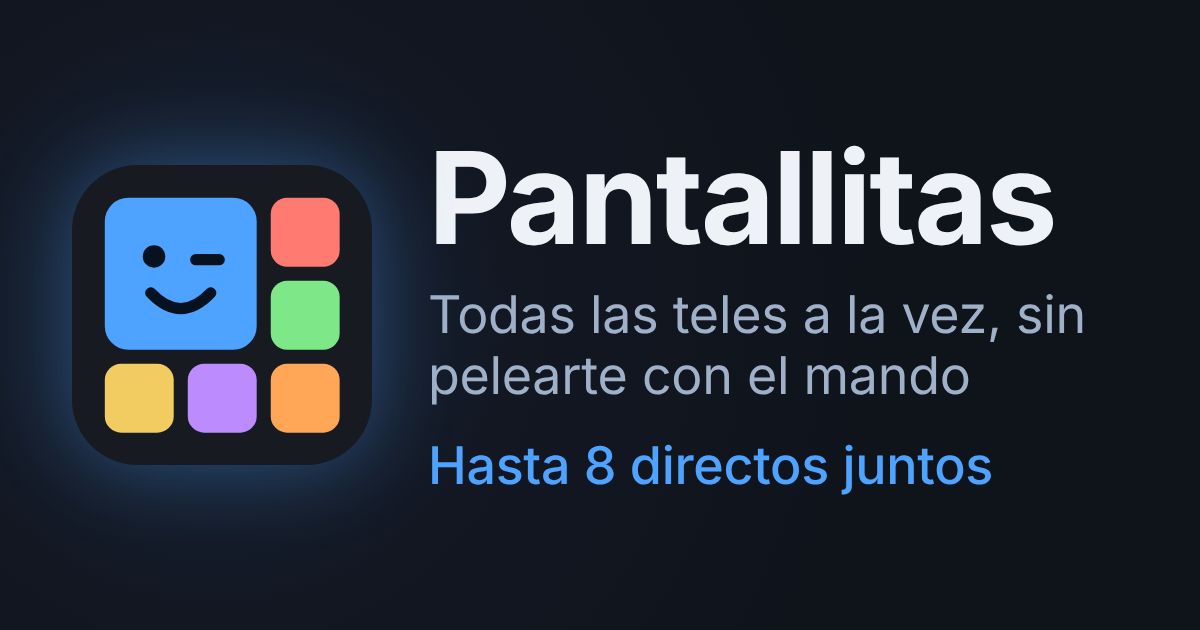
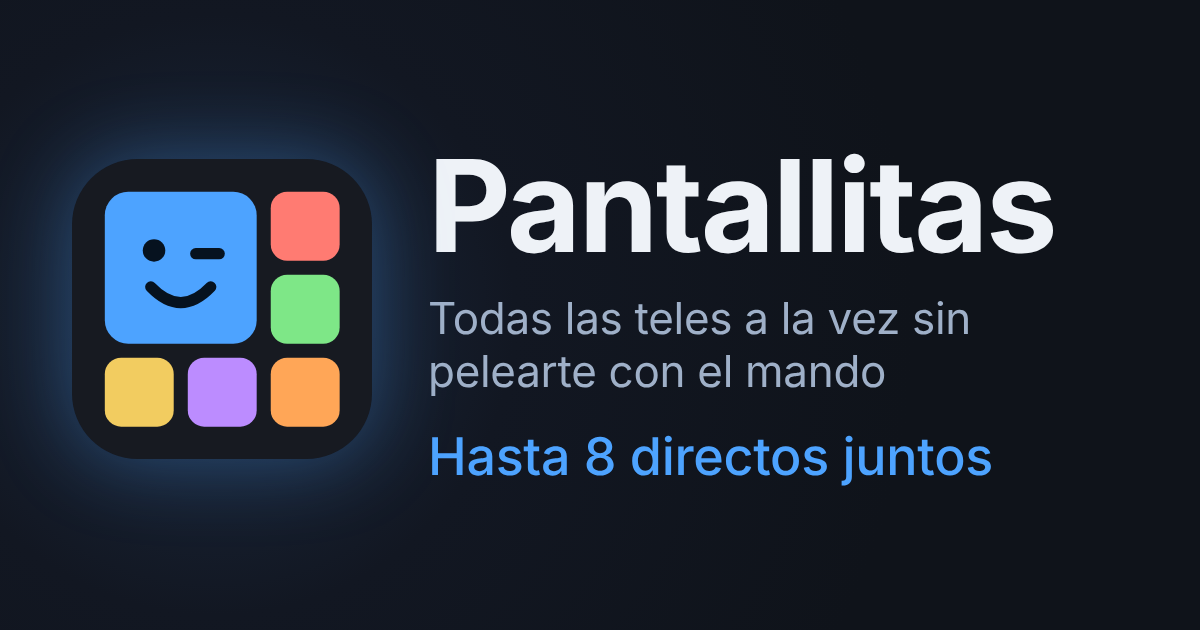
Preview de redes: subtítulo más pequeño y sin coma, icono alineado con el título y nueva descripción
Claude-Session: https://claude.ai/code/session_01XLSZwh4RcV2EZkr1AycM64

diff --git a/tools/og.html b/tools/og.html
@@ -5,18 +5,22 @@
   html,body{margin:0}
   body{width:1200px;height:630px;overflow:hidden;font-family:Inter,system-ui,sans-serif;
     background:radial-gradient(circle at 215px 315px,#1b2a40 0,#121722 300px,#0f131a 700px);
-    display:flex;align-items:center;gap:56px;padding:0 60px 0 72px;box-sizing:border-box}
-  .logo{flex:none;width:300px;height:300px;filter:drop-shadow(0 0 40px rgba(77,163,255,.35))}
+    display:flex;align-items:center;padding:0 60px 0 72px;box-sizing:border-box}
+  .row{display:flex;align-items:flex-start;gap:56px}
+  /* borde de arriba del icono a la altura de la «P» del título (no de su caja de línea) */
+  .logo{flex:none;margin-top:16.5px;width:300px;height:300px;filter:drop-shadow(0 0 40px rgba(77,163,255,.35))}
   .txt{min-width:0}
   h1{margin:0 0 22px;font-size:128px;line-height:1;font-weight:700;letter-spacing:-2.5px;color:#eef2f7}
-  p{margin:0;font-size:52px;line-height:1.18;color:#9fb0c8;letter-spacing:-.3px}
-  .accent{margin-top:28px;color:#4da3ff;font-weight:500}
+  p{margin:0;font-size:44px;line-height:1.2;color:#9fb0c8;letter-spacing:-.3px}
+  .accent{margin-top:28px;font-size:52px;color:#4da3ff;font-weight:500}
 </style></head>
 <body>
+  <div class="row">
   <img class="logo" src="../logo.svg" alt="">
   <div class="txt">
     <h1>Pantallitas</h1>
-    <p>Todas las teles a la vez, sin pelearte con el mando</p>
+    <p>Todas las teles a la vez sin pelearte con el mando</p>
     <p class="accent">Hasta 8 directos juntos</p>
+  </div>
   </div>
 </body></html>

diff --git a/index.html b/index.html
@@ -13,12 +13,12 @@
   <meta property="og:title" content="Pantallitas: hasta 8 directos de televisión a la vez">
   <meta property="og:type" content="website">
   <meta property="og:url" content="https://pantallitas.pages.dev/">
-  <meta property="og:image" content="https://pantallitas.pages.dev/og.png?v=2">
+  <meta property="og:image" content="https://pantallitas.pages.dev/og.png?v=3">
   <meta property="og:image:type" content="image/png">
   <meta property="og:image:width" content="1200">
   <meta property="og:image:height" content="630">
   <meta property="og:image:alt" content="Logo de Pantallitas: una pantallita azul que guiña un ojo rodeada de otras cinco de colores">
-  <meta property="og:description" content="Todas las teles a la vez, sin pelearte con el mando. Hasta 8 directos (TDT, radio, YouTube) en una sola pantalla.">
+  <meta property="og:description" content="Todas las señales juntas para que no te pierdas nada.">
   <meta property="og:site_name" content="Pantallitas">
   <meta property="og:locale" content="es_ES">
 
@@ -37,7 +37,7 @@
     "inLanguage": "es",
     "image": {
       "@type": "ImageObject",
-      "url": "https://pantallitas.pages.dev/og.png?v=2",
+      "url": "https://pantallitas.pages.dev/og.png?v=3",
       "width": 1200,
       "height": 630
     },
